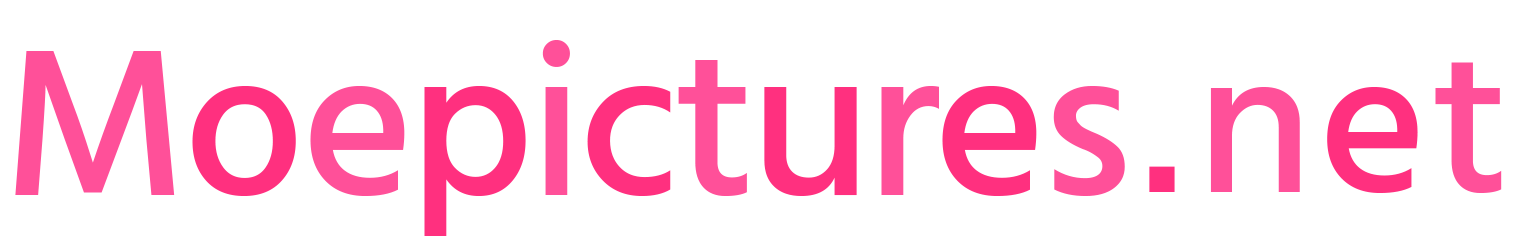
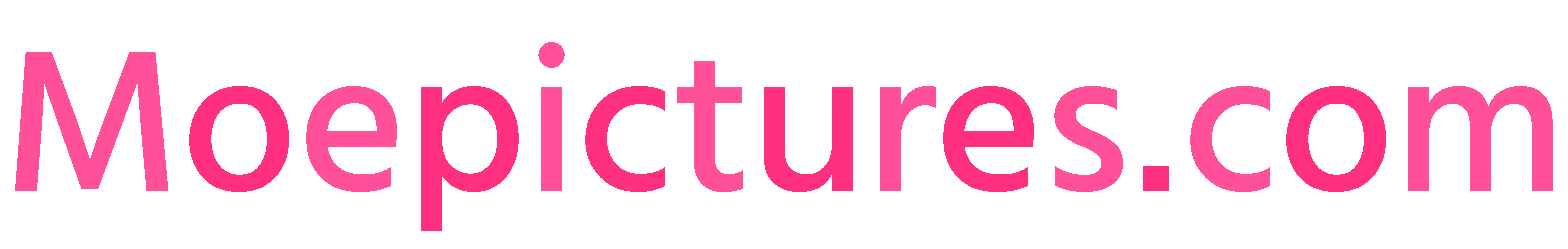
moving to moepictures.com

Changed region(s): [[0.0, 0.1968, 1.0, 0.9558], [0.3395, 0.1687, 0.4012, 0.2811]]

diff --git a/ui/site.ts b/ui/site.ts
@@ -1,1 +1,1 @@
-export const siteURL = "https://moepictures.net"
+export const siteURL = "https://moepictures.com"
